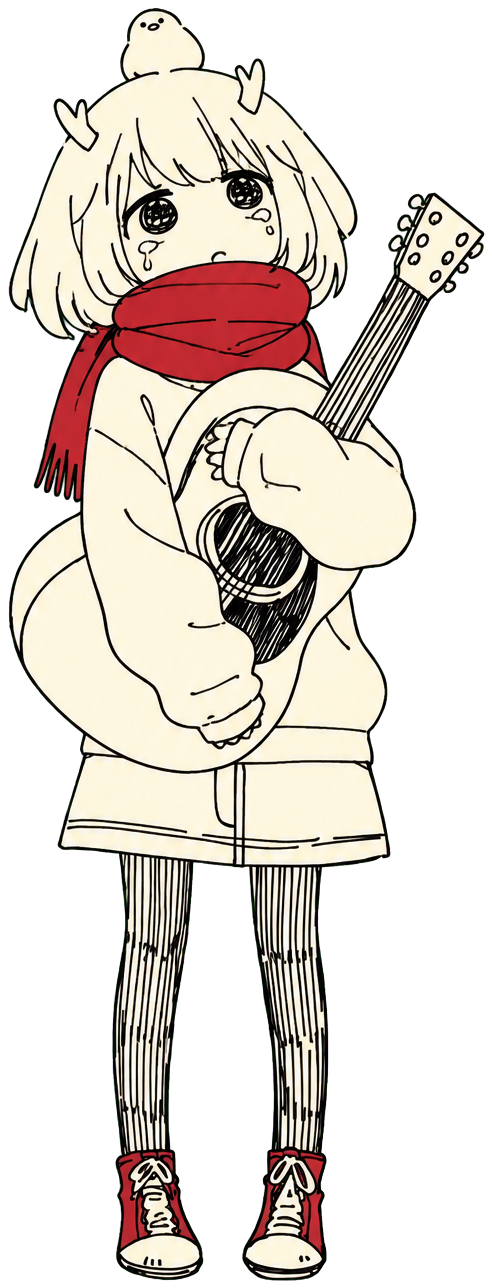
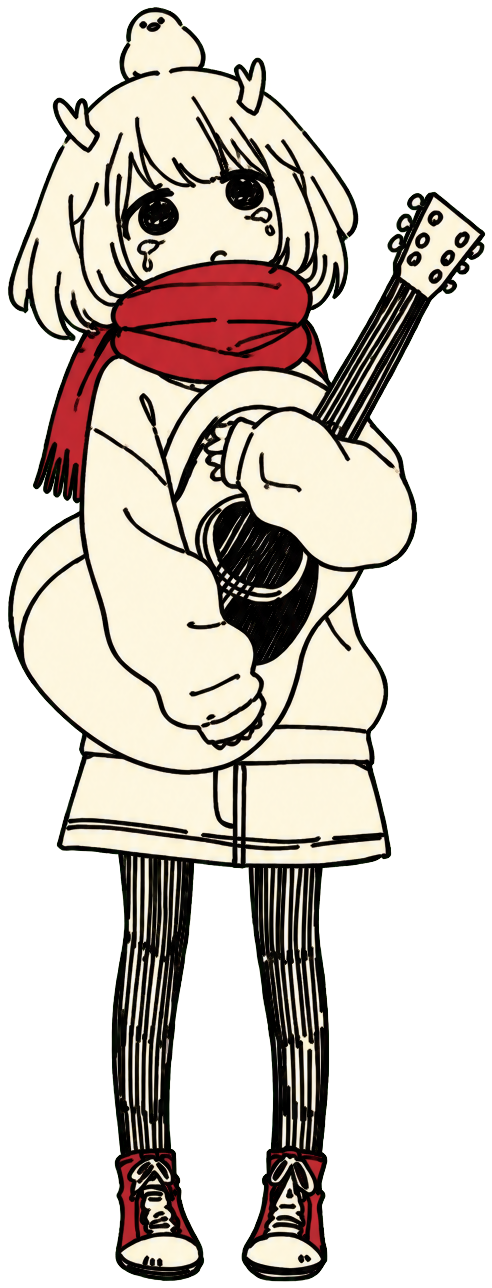
Widen the poses' pen to the jacket's
Drawn at a third of their size, the generated poses' lines were ~0.6px on
screen against the cover figure's ~2.9px, so the intro's cover and the
rain pose looked like two different pens. key-characters.py now widens
their ink by 1 source px per side (erosion over a cream backing, alpha
grown by the same disk): the same pen relative to her height as the
jacket, with the tights' stripes intact (1.5px already turns them solid).

A render-time feMorphology was tried first, but it only takes whole
screen pixels, and 1px clogged faces and hatching. The crop is taken
before widening, so png sizes and aspects are unchanged. Close-ups (drawn
near full size) and 君 (only a shadow) are left as is.

diff --git a/scripts/key-characters.py b/scripts/key-characters.py
@@ -5,6 +5,12 @@ character has no green in her, so every pixel is keyed by how green it is:
 no flood fill, which also clears gaps the line art encloses (arm against torso).
 Edge pixels are a mix of line/fill and green; they are unmixed back to the
 foreground color so no green fringe shows over the sky.
+
+The poses are drawn at about a third of their size, which thins gpt-image-2's
+pen to ~0.6px on screen against the jacket's ~2.9px; their ink is widened by
+INK_GROW source pixels per side (outline included), which matches the jacket's
+pen relative to her height without clogging the tights' stripes. The close-ups
+are drawn near full size and 君 is only ever a shadow, so both are left as is.
 """
 from pathlib import Path
 
@@ -19,6 +25,8 @@ SOLID = 20  # greenness at or below this is fully opaque (cream/red/ink are ≤ 
 CLEAR_MARGIN = 15  # within this of the background's greenness is fully transparent
 SPECK = 16  # connected blobs smaller than this many pixels are noise
 PAD = 8
+INK_GROW = 1  # px of source per side; 1.5 already turns the tights solid black
+CREAM = np.array([255, 248, 220.0])  # backing for the erosion, the poses' own fill
 
 OUT.mkdir(exist_ok=True)
 for src in sorted(SRC.glob("*.png")):
@@ -39,9 +47,18 @@ for src in sorted(SRC.glob("*.png")):
     sizes = ndimage.sum(np.ones_like(alpha), labels, range(1, n + 1))
     alpha[np.isin(labels, np.where(sizes < SPECK)[0] + 1)] = 0
 
+    # cropped before widening, so the sizes (and the aspects in characterScenes.ts) don't move
     ys, xs = np.where(alpha > 0.02)
     x0, x1 = max(xs.min() - PAD, 0), min(xs.max() + PAD, im.shape[1])
     y0, y1 = max(ys.min() - PAD, 0), min(ys.max() + PAD, im.shape[0])
+
+    if not src.stem.startswith(("close-", "kimi-")):
+        # widen dark lines: erode over a cream backing, grow the alpha by the same disk
+        yy, xx = np.mgrid[-INK_GROW : INK_GROW + 1, -INK_GROW : INK_GROW + 1]
+        disk = xx**2 + yy**2 <= INK_GROW**2
+        flat = fg * alpha[..., None] + CREAM * (1 - alpha[..., None])
+        fg = np.stack([ndimage.grey_erosion(flat[..., c], footprint=disk) for c in range(3)], -1)
+        alpha = ndimage.grey_dilation(alpha, footprint=disk)
     rgba = np.dstack([fg, alpha * 255]).round().astype(np.uint8)[y0:y1, x0:x1]
     out = OUT / src.name
     Image.fromarray(rgba, "RGBA").save(out, optimize=True)
